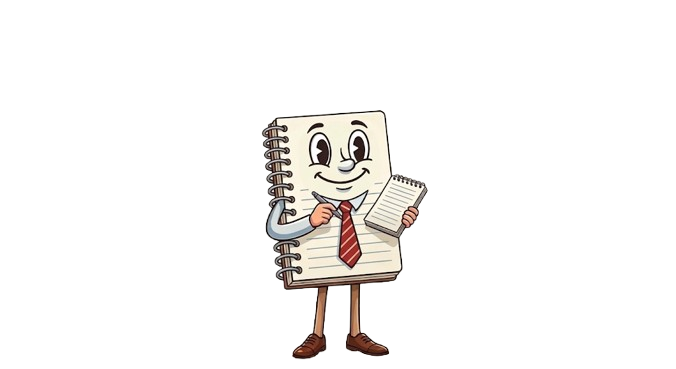
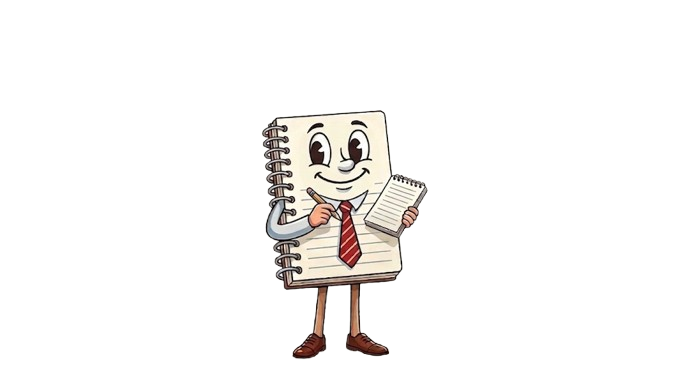
added basic starter CSS and some content update

diff --git a/src/main.css b/src/main.css
@@ -1,0 +1,163 @@
+.space-mono-regular {
+  font-family: "Space Mono", monospace;
+  font-weight: 400;
+  font-style: normal;
+}
+
+.space-mono-bold {
+  font-family: "Space Mono", monospace;
+  font-weight: 700;
+  font-style: normal;
+}
+
+.space-mono-regular-italic {
+  font-family: "Space Mono", monospace;
+  font-weight: 400;
+  font-style: italic;
+}
+
+.space-mono-bold-italic {
+  font-family: "Space Mono", monospace;
+  font-weight: 700;
+  font-style: italic;
+}
+
+body {
+    font-family: "Space Mono", monospace;
+    margin: 0%;
+    padding: 0%;
+    font-family: "Space Mono", monospace;
+    background-color: #121212;
+    color: white;
+}
+
+header ul{
+    display: flex;
+    list-style: none;
+    gap: 20px;
+
+}
+.logo{
+
+    width: 50px;
+    height: auto;
+}
+.top
+{
+    display:flex;
+    align-items: center;
+     
+}
+
+header{
+    
+    width: 100%;
+    box-sizing: border-box;
+    background-color: black;
+    display: flex;
+
+    align-items: center;
+    justify-content: space-between;
+    padding: 10px 20px;
+
+}
+body{
+
+    background-color: #ffffff;
+}
+h1{
+  
+  text-align: left;
+   margin: 0;
+   padding-left: 20px;
+   font-size: 1.2rem;
+}
+
+
+
+.quote{
+
+    color: black;
+    background-color: #ffffff;
+    font-size: 1rem;
+    letter-spacing: 1px;
+     text-align: center;
+    padding: 10px 20px;
+}
+.quote {
+    border-left: 4px solid #5a3f2b;
+    background-color: #eae8e3;
+    padding: 20px 30px;
+    margin: 20px 40px;
+    font-size: 1rem;
+    line-height: 1.6;
+    color: #2a2a2a;
+}
+.section-description
+{
+    background-color:#f8f8f8 ;
+    color: #121212;
+    padding: 20px;
+    line-height: 1.6;
+    font-size: 1rem;
+
+    border-left: 4px solid #5a3f2b;
+}
+.section{
+
+    display:flex;
+    align-items: flex-start;
+    justify-content: space-between;
+   background-color:#5a3f2b ;
+    padding: 20px 30px;
+    margin: 20px 40px;
+}
+
+.section img {
+    max-width: 300px;
+    height: auto;
+}
+
+.img2
+{
+      max-width: 300px;
+    height: auto;
+    padding: 0px;
+    margin:  0px;;
+
+}
+
+.habit-input{
+    
+
+    background-color:#5a3f2b ;
+    padding: 20px 30px;
+    margin: 20px 40px;
+
+}
+.section02
+{
+        display: flex;
+    align-items: center;
+    justify-content: center;
+
+}
+
+.input{
+    width: 400px;
+    height: 100px;
+    padding: 20px 20px 60px 20px;
+    margin: 0px;
+
+}
+.button1
+{
+    
+}
+
+
+
+
+
+
+

diff --git a/main.html b/main.html
@@ -24,27 +24,34 @@
     </nav>
   </header>
 
-  <div class="quote">
-<p>My teacher once told me: <em>you want to change your future? Change your habits.</em>
-And GUESS what — you are on the first step of your journey! Habinator is here to help you build those habits, and turn small daily wins into lasting change. Let's make it happen!</p>
-  </div>
+
 
   <div class="section">
     <img src="assets/hani-nator_intro.png" alt="Habinator introducing himself!"/>
     <p class="section-description">Meet Habinator — your habit narrator, writer, and rater. He doesn't just track your habits, he makes sure you stick to them. Add your daily goals, check them off, and watch your streaks grow. Habinator believes that consistency beats perfection, and he's here to walk that journey with you, one checkmark at a time.</p>
   </div>
 
+    <div class="quote">
+<p>My teacher once told me: <em>you want to change your future? Change your habits.</em>
+And GUESS what — you are on the first step of your journey! Habinator is here to help you build those habits, and turn small daily wins into lasting change. Let's make it happen!</p>
+  </div>
+
   <div class="habit-input">
-    <img src="assets/habit_nator.png" alt="Habinator asking what's on your mind???" />
-    <div>
-      <input type="text" placeholder="Type a habit... e.g. Read 30 min" maxlength="40" />
-      <button>Add</button>
+  <div class="section02">
+    
+
+      <input type="text" placeholder="What's on your mind? Drop a habit, and let Habinator do the rest." maxlength="40"  class="input"/>
+    <img src="assets/habit_nator.png" alt="Habinator asking what's on your mind???" class="img2" />
+      <p>Tell Habinator what you want to track. He's waiting!</p>
+
     </div>
+      <button class="button1">Add</button>
+
   </div>
 
   <div class="empty-state">
     <p>No habits yet!</p>
-    <p>Tell Habinator what you want to track. He's waiting!</p>
+    
   </div>
 
   <footer></footer>